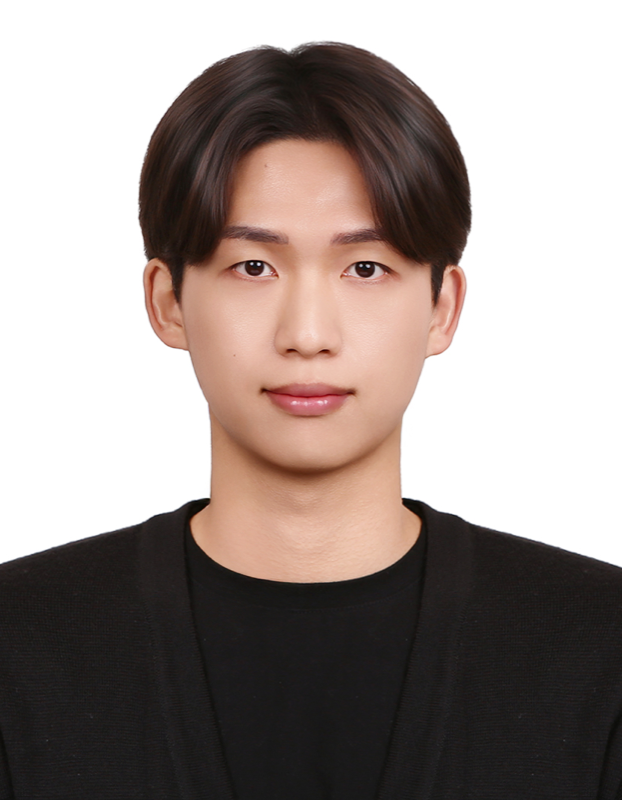
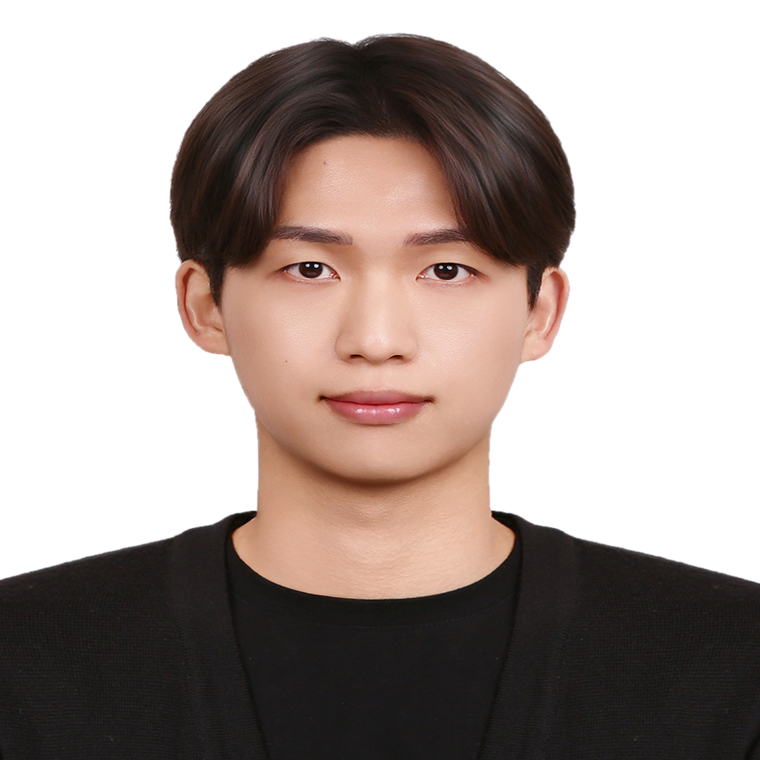
Cut out the photo background and add UGRP and UCLA to experience
Replace the ID photo with a transparent-background PNG, matted by a
border-flood fill so bright skin stays opaque, and give it a
theme-following disc so it no longer reads as a white puck in dark mode.

Add the 2024 UGRP low-light object detection project and the UCLA summer
session to both the homepage and the CV.

diff --git a/assets/css/homepage.css b/assets/css/homepage.css
@@ -8,6 +8,7 @@
   --text-dim:  #8a8a95;
   --link:      #35507d;
   --rule:      #e4e4e2;
+  --photo-bg:  #f0f0ed;
 
   --serif: "Source Serif 4", Iowan Old Style, Charter, Georgia, serif;
   --sans:  -apple-system, BlinkMacSystemFont, "Segoe UI", Roboto, Helvetica, Arial, sans-serif;
@@ -20,6 +21,7 @@
   --text-dim:  #777780;
   --link:      #8fa9d6;
   --rule:      #2a2a31;
+  --photo-bg:  #23232b;
 }
 
 * { box-sizing: border-box; }
@@ -126,14 +128,16 @@ p { margin: 0 0 15px; }
   margin-bottom: 26px;
 }
 
+/* The PNG has a transparent background, so the disc below is what gives the
+   portrait a ground — and it follows the theme instead of staying white. */
 .intro__photo {
   flex: none;
   width: 104px;
   height: 104px;
   border-radius: 50%;
   object-fit: cover;
-  object-position: center 20%;
-  filter: saturate(0.92);
+  object-position: center 12%;
+  background: var(--photo-bg);
 }
 
 .intro__name {

diff --git a/_pages/cv.md b/_pages/cv.md
@@ -18,6 +18,15 @@ Research experience
 * **Graduate Research Assistant**, Real-Time Computing Lab (RTCL), DGIST — Feb 2026 – Present
   * Real-time systems, with a focus on DNN inference offloading between edge devices and servers under latency constraints
   * Image-adaptive JPEG compression: per-image quality factor and quantization table optimization for offloaded inference under variable network bandwidth
+* **Undergraduate Group Research Program (UGRP)**, DGIST — 2024
+  * *Noise Map-Driven Dynamic Frame Processing for Improved Object Detection in Low-Light Conditions* (team research project)
+  * Built a low-light detection pipeline in front of YOLO — Zero-DCE enhancement, CBDNet noise-map estimation, and MFDNet denoising — integrated into the detector's data loader
+  * Held the pipeline to real time by exploiting temporal redundancy between frames, processing one frame in five at 20 FPS
+  * Improved mAP by roughly 1% over the unenhanced baseline on BDD100k
+
+International experience
+======
+* **Summer Session**, University of California, Los Angeles (UCLA) — Jun – Aug 2023
 
 Skills
 ======
